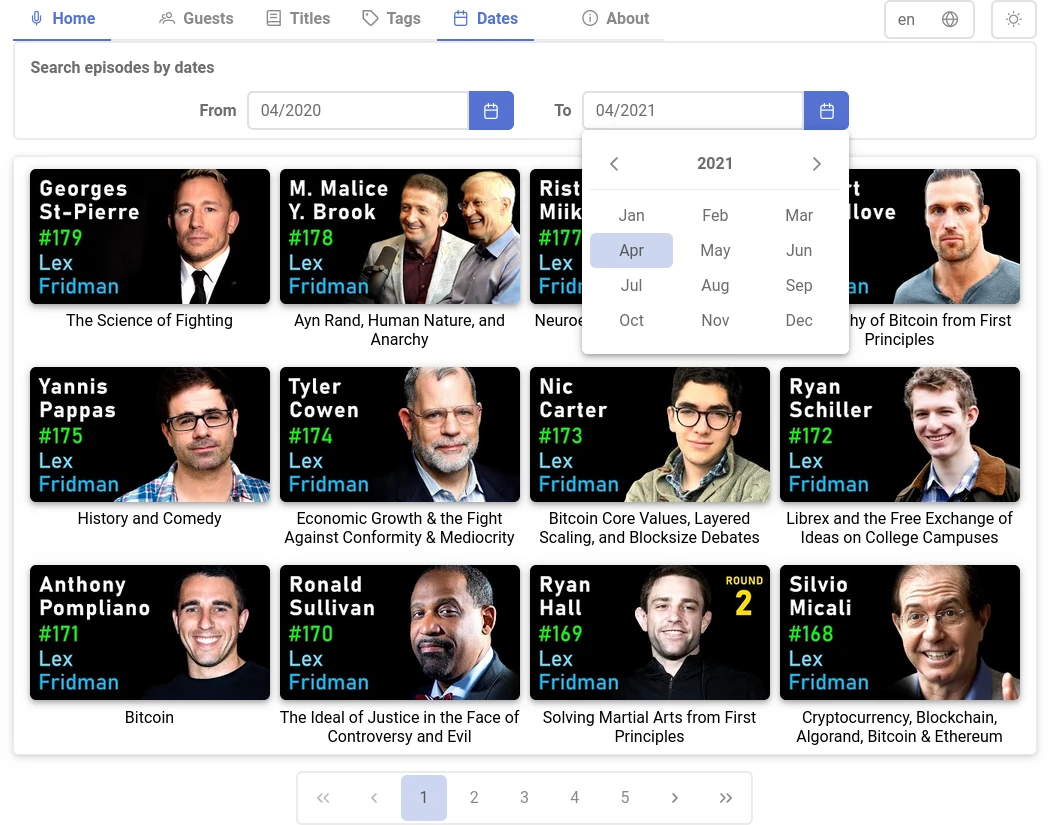
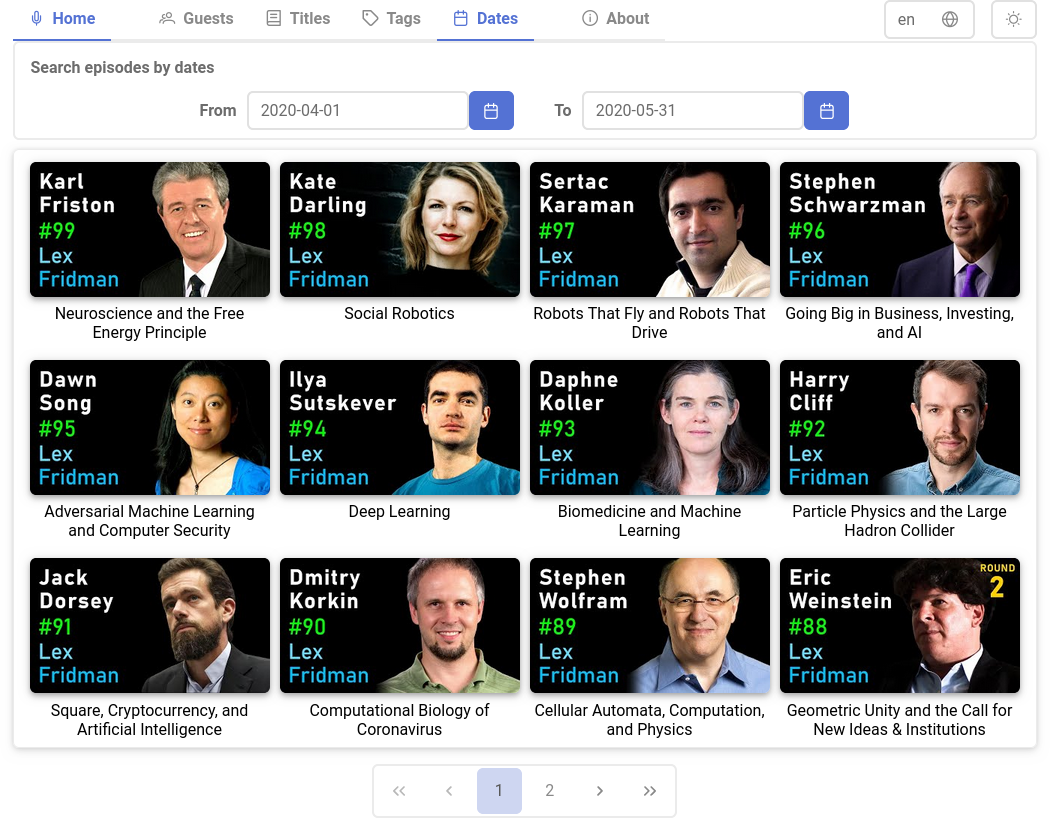
Better dates handling

diff --git a/src/components/search/date-search/date-search.component.ts b/src/components/search/date-search/date-search.component.ts
@@ -1,5 +1,5 @@
 import { Component, OnInit } from '@angular/core';
-import { AppComponent } from 'src/app/app.component';
+import { DateTime } from 'luxon';
 import { Video } from 'src/domain/video';
 import { DatabaseService } from 'src/services/database.service';
 
@@ -27,21 +27,26 @@ export class DateSearchComponent implements OnInit {
     this.videos = this.dbService.getAllVideos();
   }
 
-  public initDates() {
-    this.minDateFrom = this.FIRST_PODCAST_DATE;
-    this.maxDateFrom = new Date();
-    this.maxDateTo = this.maxDateFrom;
+  private initDates() {
+    this.minDateFrom = this.startOfMonthDate(this.FIRST_PODCAST_DATE);
+    this.maxDateTo = this.endOfMonthDate(new Date());
     this.dateFrom = this.minDateFrom;
     this.dateTo = this.maxDateTo;
   }
 
-  private adjustMinMax() {
+  protected onDateChange() {
+    this.dateFrom = this.startOfMonthDate(this.dateFrom);
+    this.dateTo = this.endOfMonthDate(this.dateTo);
     this.maxDateFrom = this.dateTo;
     this.minDateTo = this.dateFrom;
+    this.videos = this.dbService.getVideosByDates(this.dateFrom, this.dateTo, true);
   }
 
-  protected onDateChange() {
-    this.adjustMinMax();
-    this.videos = this.dbService.getVideosByDates(this.dateFrom, this.dateTo, true);
+  private startOfMonthDate(date: Date): Date {
+    return DateTime.fromJSDate(date).startOf('month').toJSDate();
+  }
+
+  private endOfMonthDate(date: Date): Date {
+    return DateTime.fromJSDate(date).endOf('month').toJSDate();
   }
 }

diff --git a/src/components/search/date-search/date-search.component.html b/src/components/search/date-search/date-search.component.html
@@ -5,7 +5,7 @@
         <label>{{ "search.from" | translate }}</label>
         <p-calendar
           [(ngModel)]="dateFrom"
-          dateFormat="mm/yy"
+          dateFormat="yy-mm-dd"
           view="month"
           [minDate]="minDateFrom"
           [maxDate]="maxDateFrom"
@@ -18,7 +18,7 @@
         <label>{{ "search.to" | translate }}</label>
         <p-calendar
           [(ngModel)]="dateTo"
-          dateFormat="mm/yy"
+          dateFormat="yy-mm-dd"
           view="month"
           [minDate]="minDateTo"
           [maxDate]="maxDateTo"
